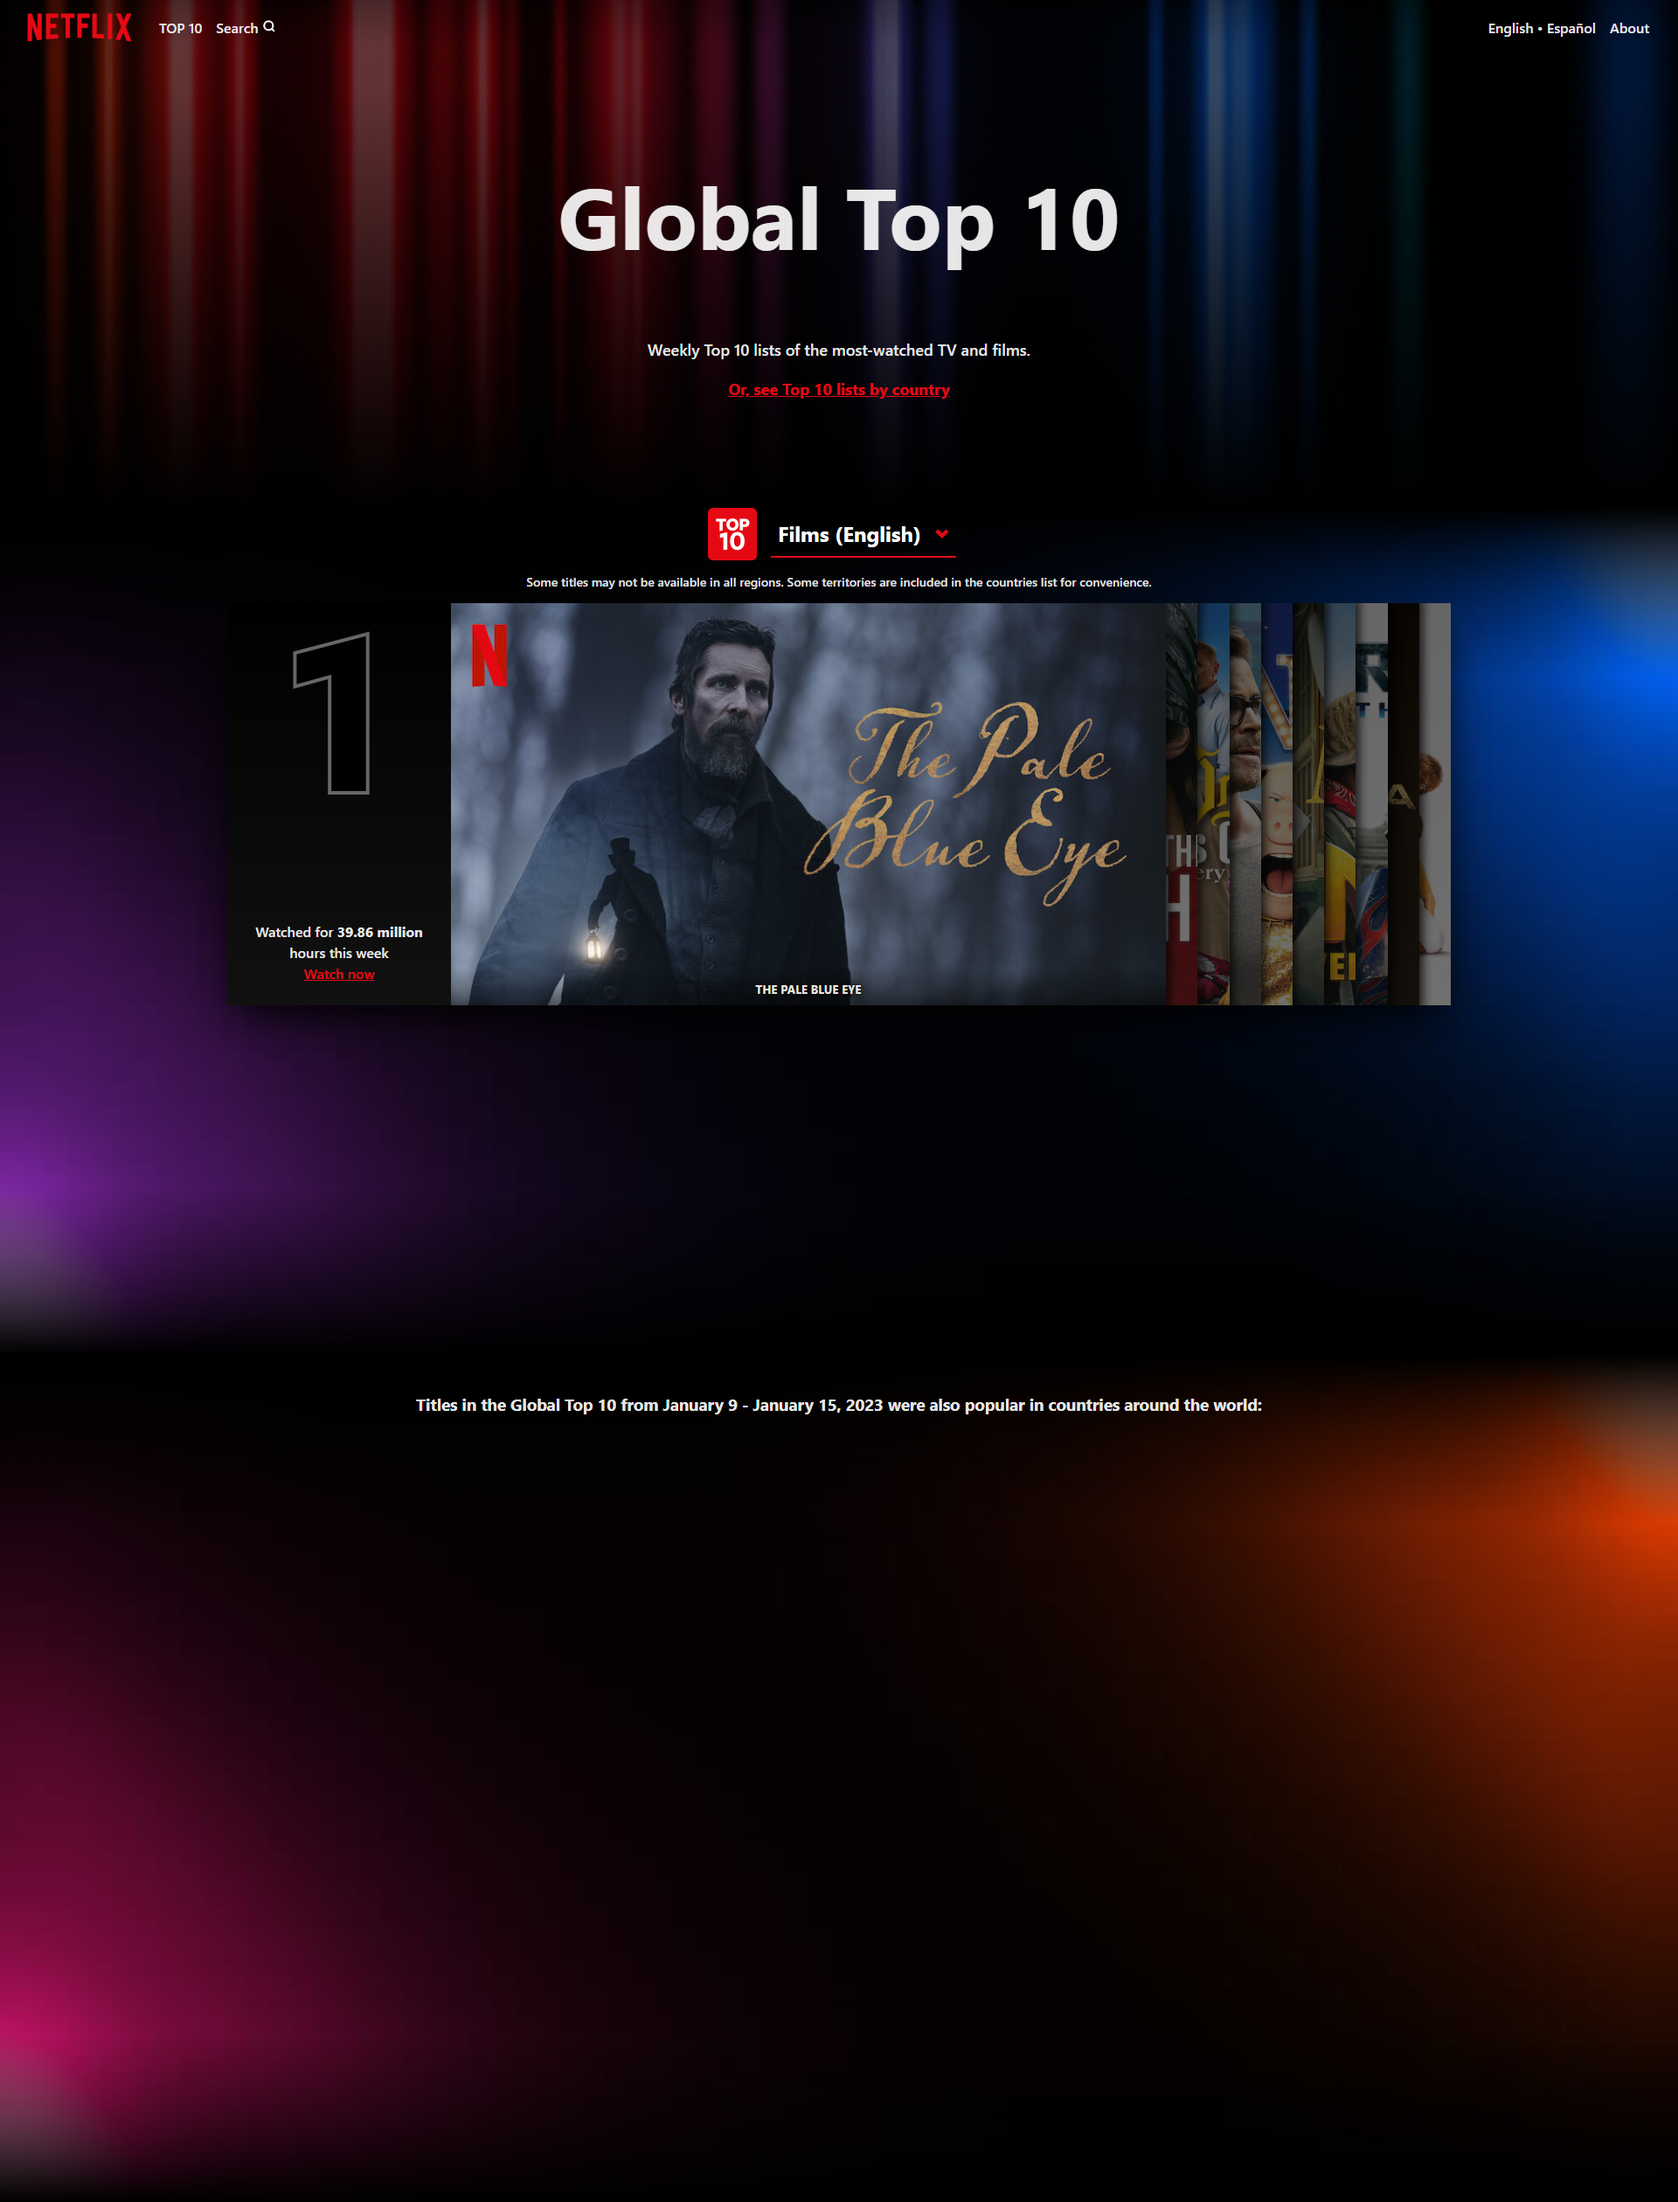
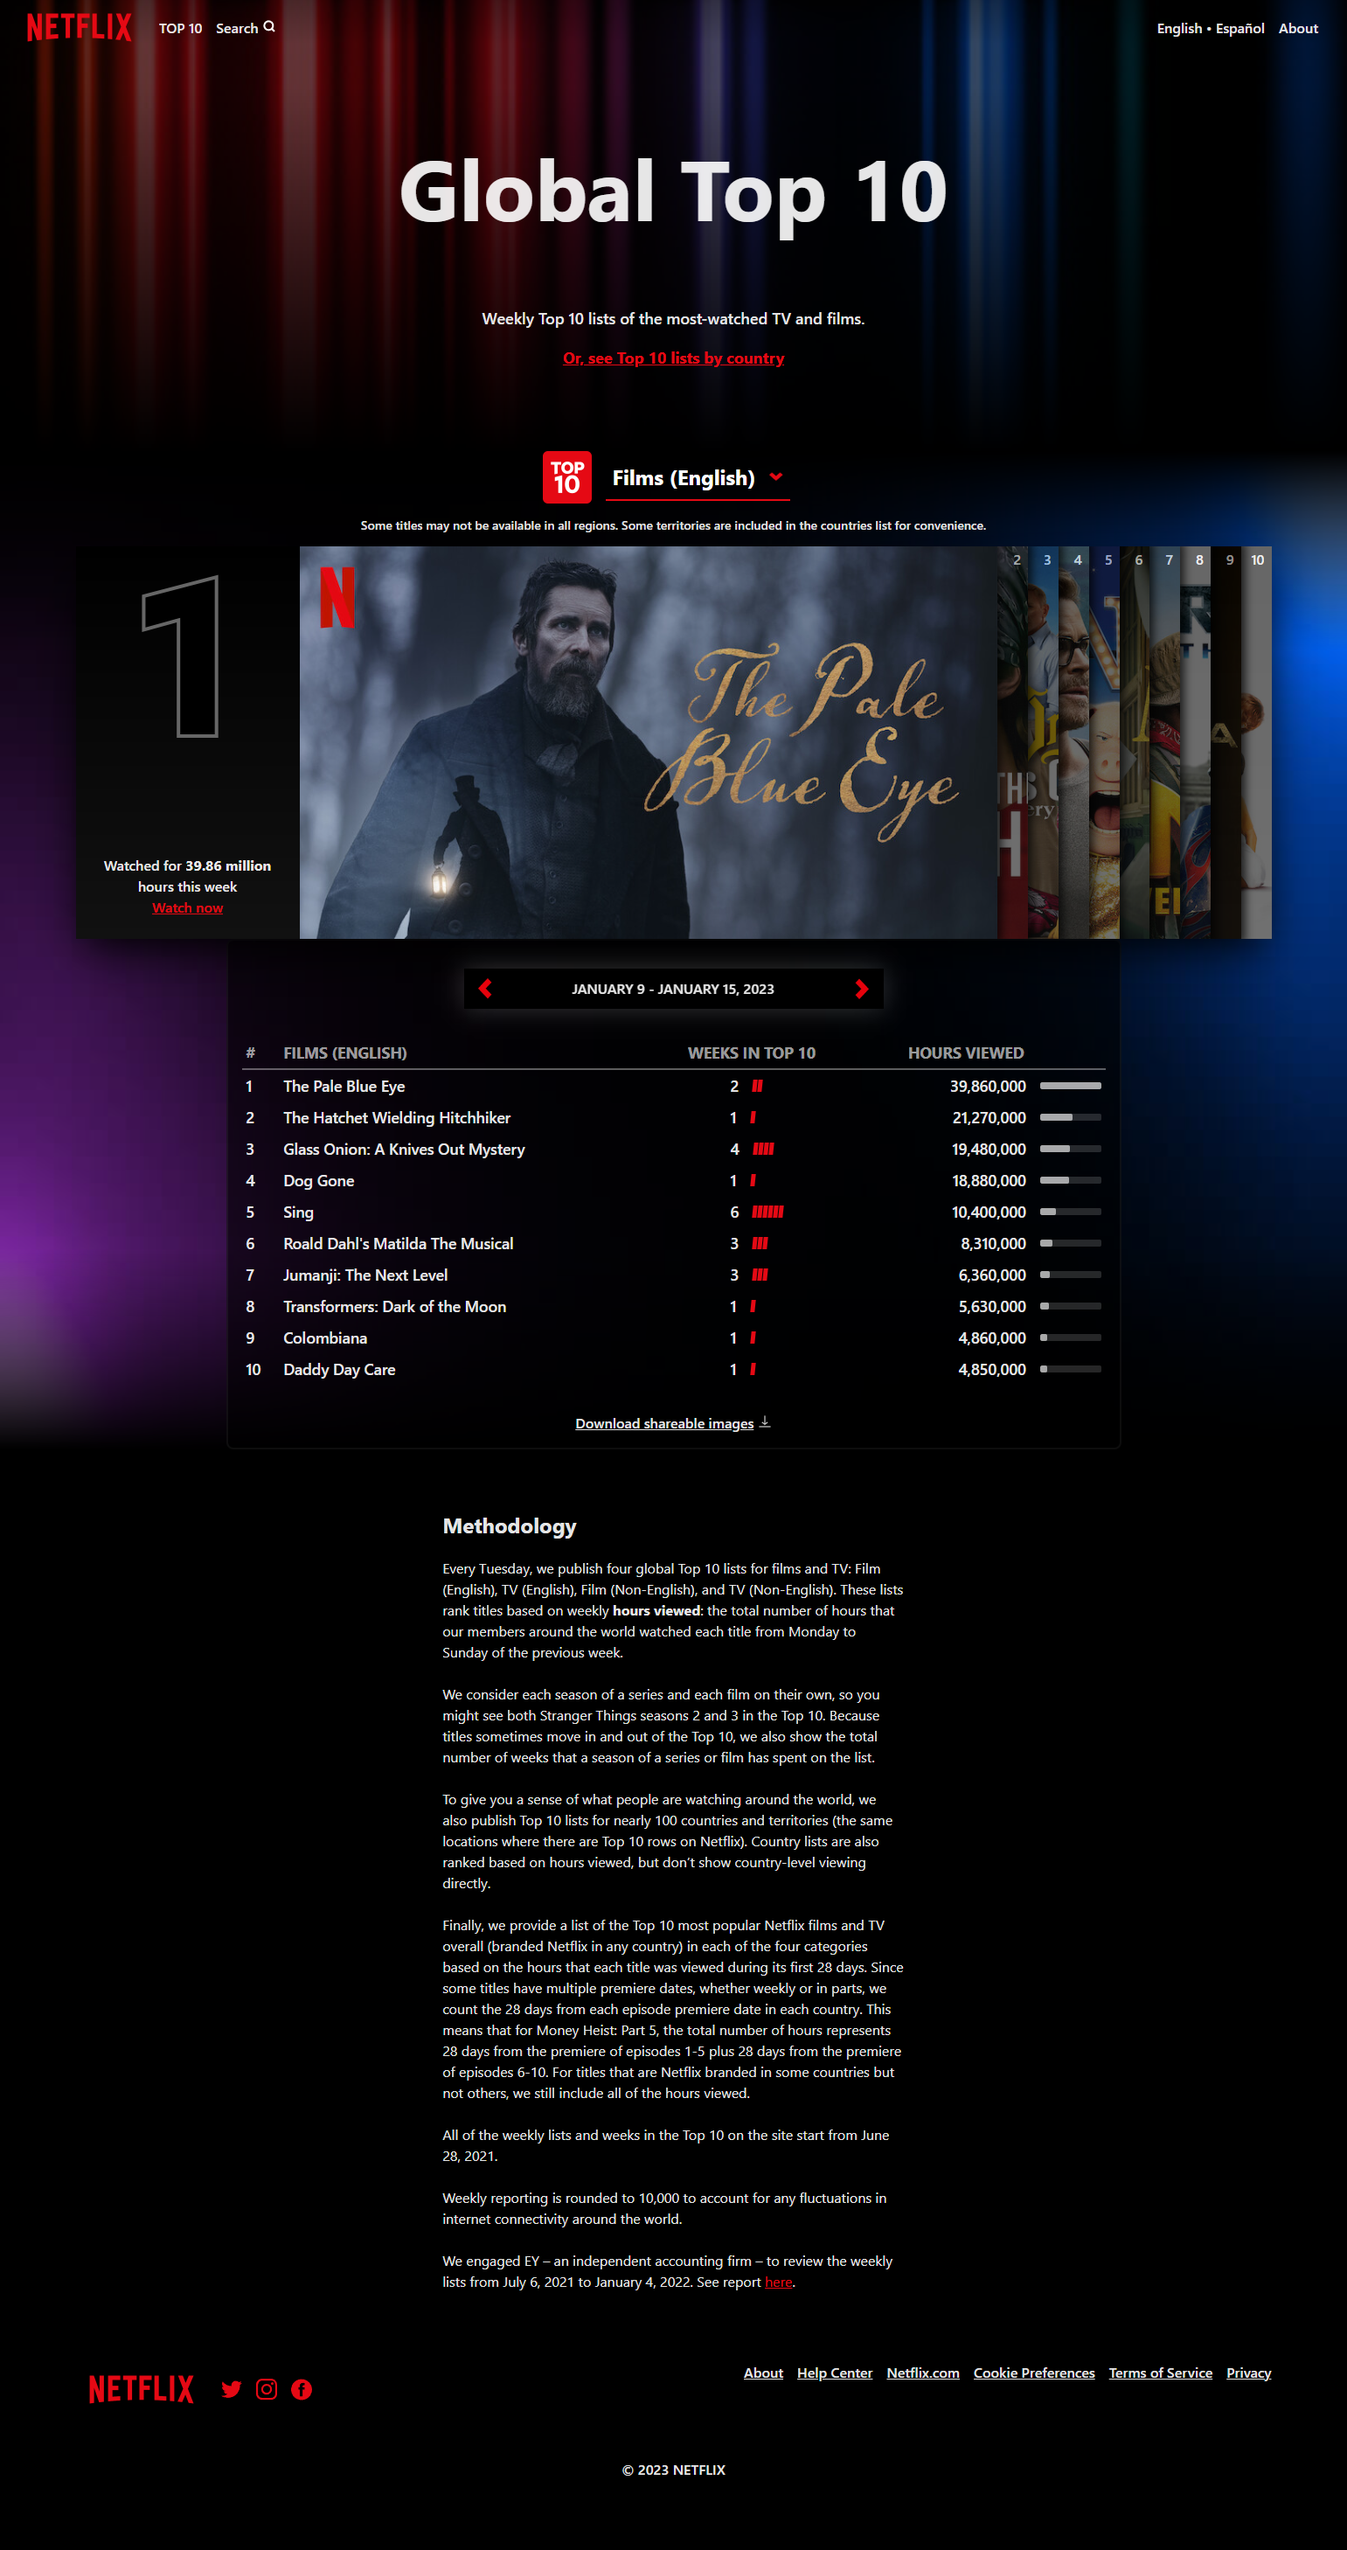
added images and footer

diff --git a/src/parts/Footer/Footer.jsx b/src/parts/Footer/Footer.jsx
@@ -1,0 +1,47 @@
+import twitter from "../../assets/imgs/twitter.svg";
+import instagram from "../../assets/imgs/instagram.svg";
+import facebook from "../../assets/imgs/facebook.svg";
+import logo from "../../assets/imgs/logo.png";
+
+/**
+ * Footer component - links are not functional
+ */
+export const Footer = () => {
+    return (
+        <footer>
+            <div className="container margin-y">
+                <div className="flex space-between">
+                    <div className="flex space-between gap-1 ">
+                        <img src={logo} className="App-logo" alt="logo" />
+                        <img
+                            src={twitter}
+                            className="social__btn"
+                            alt="twitter"
+                        />
+                        <img
+                            src={instagram}
+                            className="social__btn"
+                            alt="instagram"
+                        />
+                        <img
+                            src={facebook}
+                            className="social__btn"
+                            alt="facebook"
+                        />
+                    </div>
+                    <div className="white-links flex gap-1">
+                        <a href="#home">About</a>{" "}
+                        <a href="#home">Help Center</a>{" "}
+                        <a href="#home">Netflix.com</a>{" "}
+                        <a href="#home">Cookie Preferences</a>{" "}
+                        <a href="#home">Terms of Service</a>{" "}
+                        <a href="#home">Privacy</a>
+                    </div>
+                </div>
+                <br />
+                <br />
+                <div className="text-center">© 2023 NETFLIX</div>
+            </div>
+        </footer>
+    );
+};
